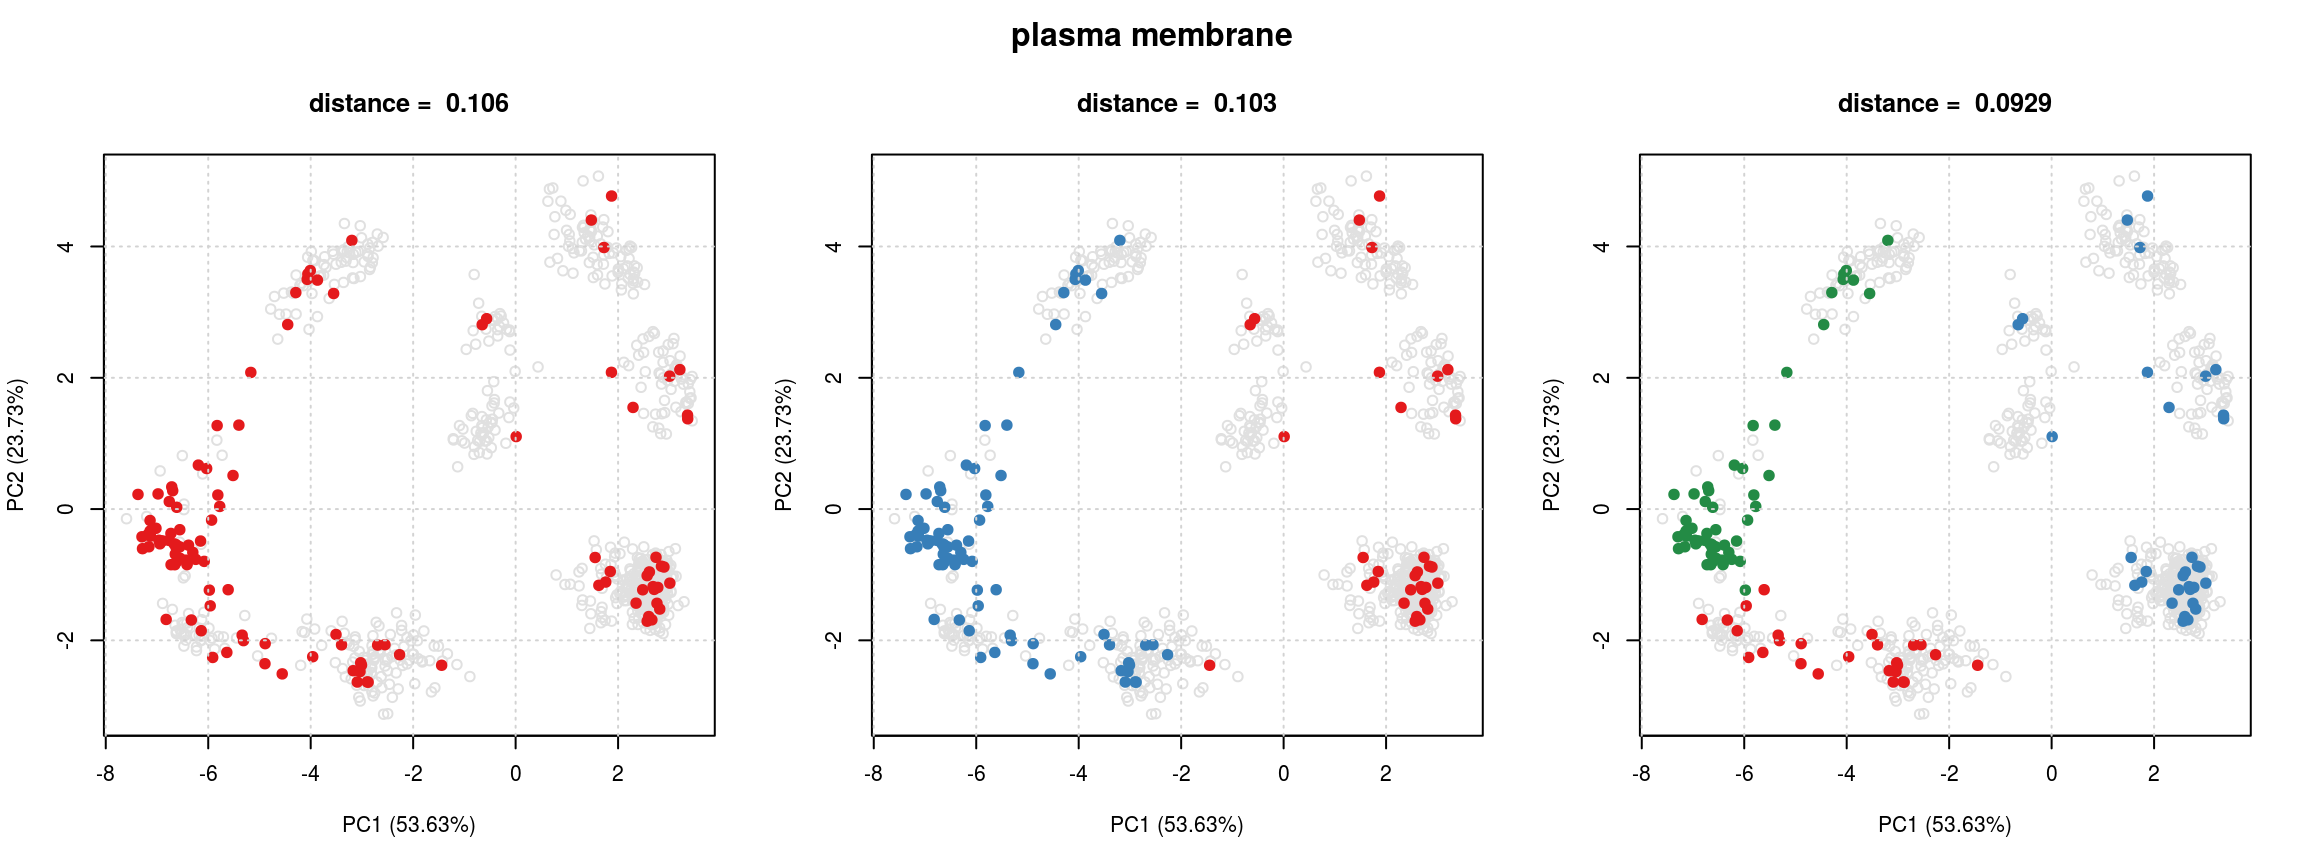
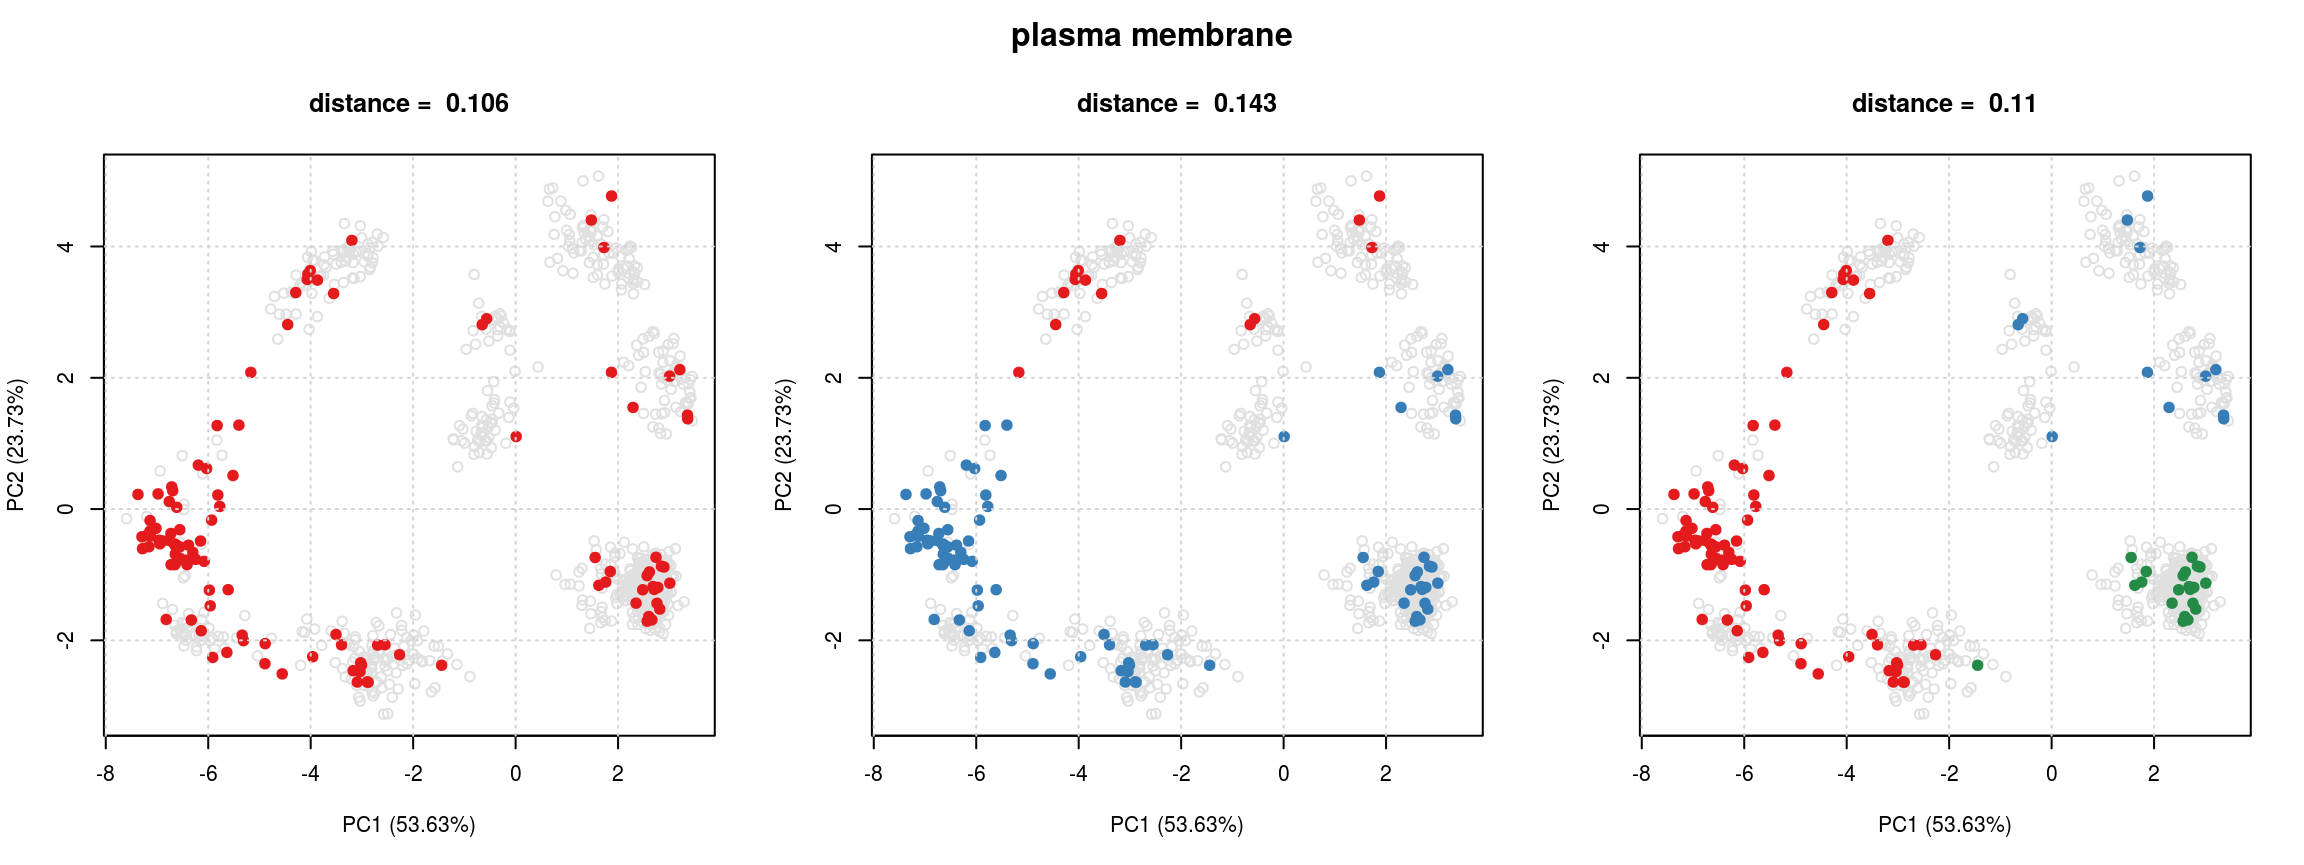
update pkgdown

diff --git a/docs/articles/v01-pRoloc-tutorial.html b/docs/articles/v01-pRoloc-tutorial.html
@@ -305,7 +305,7 @@ tan2009r1</code></pre></div>
 ## experimentData: use 'experimentData(object)'
 ## Annotation:  
 ## - - - Processing information - - -
-## Quantitation data loaded: Tue Sep 18 09:25:19 2018  using readMSnSet. 
+## Quantitation data loaded: Tue Sep 18 09:33:05 2018  using readMSnSet. 
 ##  MSnbase version: 2.7.4</code></pre>
 </div>
 </div>
@@ -748,7 +748,7 @@ svmres &lt;-<span class="st"> </span><span class="kw"><a href="../reference/svmC
 <span class="kw"><a href="http://www.rdocumentation.org/packages/MSnbase/topics/pSet-class">processingData</a></span>(svmres)</code></pre></div>
 <pre><code>## - - - Processing information - - -
 ## Added markers from  'mrk' marker vector. Thu Jul 16 22:53:44 2015 
-## Performed svm prediction (sigma=0.1 cost=0.5) Tue Sep 18 09:25:26 2018 
+## Performed svm prediction (sigma=0.1 cost=0.5) Tue Sep 18 09:33:12 2018 
 ##  MSnbase version: 1.17.12</code></pre>
 <div class="sourceCode"><pre class="sourceCode r"><code class="sourceCode r"><span class="kw">tail</span>(<span class="kw">fvarLabels</span>(svmres), <span class="dv">4</span>)</code></pre></div>
 <pre><code>## [1] "markers"    "markers.tl" "svm"        "svm.scores"</code></pre>
@@ -850,8 +850,8 @@ Organelle-specific SVM score distributions.
 ## Annotation:  
 ## - - - Processing information - - -
 ## Added markers from  'mrk' marker vector. Thu Jul 16 22:53:44 2015 
-## Performed svm prediction (sigma=0.1 cost=0.5) Tue Sep 18 09:25:26 2018 
-## Added svm predictions according to thresholds: ER = 0.84, Golgi = 0.63, mitochondrion = 0.75, PM = 0.77 Tue Sep 18 09:25:26 2018 
+## Performed svm prediction (sigma=0.1 cost=0.5) Tue Sep 18 09:33:12 2018 
+## Added svm predictions according to thresholds: ER = 0.84, Golgi = 0.63, mitochondrion = 0.75, PM = 0.77 Tue Sep 18 09:33:12 2018 
 ##  MSnbase version: 1.17.12</code></pre>
 <p>We can now visualise these results using the plotting functions presented in section @ref(sec:usml), as shown on figure @ref(fig:svmres). We clearly see that besides the organelle marker clusters that have been assigned high confidence members, many other proteins have substantially lower prediction scores.</p>
 <div class="sourceCode"><pre class="sourceCode r"><code class="sourceCode r">ptsze &lt;-<span class="st"> </span><span class="kw">exp</span>(<span class="kw">fData</span>(svmres)<span class="op">$</span>svm.scores) <span class="op">-</span><span class="st"> </span><span class="dv">1</span>

diff --git a/docs/articles/v03-pRoloc-bayesian.html b/docs/articles/v03-pRoloc-bayesian.html
@@ -52,7 +52,7 @@
   </a>
   <ul class="dropdown-menu" role="menu">
 <li>
-      <a href="../articles/v01-pRoloc-tutorial.html">UNKNOWN TITLE</a>
+      <a href="../articles/v01-pRoloc-tutorial.html">Using pRoloc for spatial proteomics data analysis</a>
     </li>
     <li>
       <a href="../articles/v02-pRoloc-ml.html">Machine learning techniques available in pRoloc</a>
@@ -205,18 +205,18 @@ p</code></pre></div>
 <div class="sourceCode"><pre class="sourceCode r"><code class="sourceCode r"><span class="kw">table</span>(<span class="kw">fData</span>(res)<span class="op">$</span>tagm.mcmc.allocation)</code></pre></div>
 <pre><code>## 
 ##  Cytoskeleton            ER         Golgi      Lysosome mitochondrion 
-##            12            98            20            10            39 
+##            13            98            18            10            39 
 ##       Nucleus    Peroxisome            PM    Proteasome  Ribosome 40S 
-##            25             3           103            29            31 
+##            25             3           102            31            32 
 ##  Ribosome 60S 
-##            30</code></pre>
+##            29</code></pre>
 <ul>
 <li>
 <code>tagm.mcmc.probability</code>: the posterior probability for the protein sub-cellular allocations.</li>
 </ul>
 <div class="sourceCode"><pre class="sourceCode r"><code class="sourceCode r"><span class="kw">summary</span>(<span class="kw">fData</span>(res)<span class="op">$</span>tagm.mcmc.probability)</code></pre></div>
 <pre><code>##    Min. 1st Qu.  Median    Mean 3rd Qu.    Max. 
-##  0.3259  0.8980  0.9895  0.9098  1.0000  1.0000</code></pre>
+##  0.3497  0.8896  0.9882  0.9085  1.0000  1.0000</code></pre>
 <p>As well as other useful summaries of the MCMC methods:</p>
 <ul>
 <li><p><code>tagm.mcmc.outlier</code> the posterior probability for the protein to belong to the outlier component.</p></li>

diff --git a/docs/articles/v05-pRoloc-transfer-learning.html b/docs/articles/v05-pRoloc-transfer-learning.html
@@ -52,7 +52,7 @@
   </a>
   <ul class="dropdown-menu" role="menu">
 <li>
-      <a href="../articles/v01-pRoloc-tutorial.html">UNKNOWN TITLE</a>
+      <a href="../articles/v01-pRoloc-tutorial.html">Using pRoloc for spatial proteomics data analysis</a>
     </li>
     <li>
       <a href="../articles/v02-pRoloc-ml.html">Machine learning techniques available in pRoloc</a>
@@ -166,7 +166,7 @@ document.addEventListener("DOMContentLoaded", function() {
 ##  Using the 'ENSEMBL_MART_ENSEMBL' BioMart database
 ##  Using the 'hsapiens_gene_ensembl' dataset
 ##  Using 'uniprotswissprot' as filter
-##  Created on Tue Sep 18 09:21:26 2018</code></pre>
+##  Created on Tue Sep 18 09:35:09 2018</code></pre>
 <p>The <em>setAnnotationParams</em> function automatically sets the annotation parameters globally so that the <code>ap</code> object does not need to be explicitly set later on. The default parameters can be retrieved with <em>getAnnotationParams</em>.</p>
 </div>
 <div id="sec:auxgo" class="section level3">
@@ -192,7 +192,7 @@ andygoset</code></pre></div>
 ## experimentData: use 'experimentData(object)'
 ## Annotation:  
 ## - - - Processing information - - -
-## Constructed GO set using cellular_component namespace [Tue Sep 18 09:21:37 2018] 
+## Constructed GO set using cellular_component namespace [Tue Sep 18 09:35:18 2018] 
 ##  MSnbase version: 2.7.4</code></pre>
 <div class="sourceCode"><pre class="sourceCode r"><code class="sourceCode r"><span class="kw">exprs</span>(andygoset)[<span class="dv">1</span><span class="op">:</span><span class="dv">7</span>, <span class="dv">1</span><span class="op">:</span><span class="dv">4</span>]</code></pre></div>
 <pre><code>##        GO:0016020 GO:0016021 GO:0005783 GO:0005730

diff --git a/docs/articles/v04-pRoloc-goannotations.html b/docs/articles/v04-pRoloc-goannotations.html
@@ -52,7 +52,7 @@
   </a>
   <ul class="dropdown-menu" role="menu">
 <li>
-      <a href="../articles/v01-pRoloc-tutorial.html">UNKNOWN TITLE</a>
+      <a href="../articles/v01-pRoloc-tutorial.html">Using pRoloc for spatial proteomics data analysis</a>
     </li>
     <li>
       <a href="../articles/v02-pRoloc-ml.html">Machine learning techniques available in pRoloc</a>
@@ -209,13 +209,13 @@ dd[[<span class="dv">1</span>]]</code></pre></div>
 ##  nrow =  114 
 ## k's tested: 1 2 3 
 ##   Size:  114 
-##   Size:  34, 80 
-##   Size:  26, 33, 55 
+##   Size:  14, 100 
+##   Size:  80, 12, 22 
 ## Clusters info:
-##       ks.mean    mean ks.norm     norm
-## k = 1       1  0.5153       1  0.10627
-## k = 2       2  0.3771       2  0.10299
-## k = 3       3 *0.3067       3 *0.09294</code></pre>
+##       ks.mean    mean ks.norm    norm
+## k = 1       1  0.5153       1 *0.1063
+## k = 2       2  0.4524       2  0.1435
+## k = 3       3 *0.3178       3  0.1104</code></pre>
 <p>We can use the <code>plotClustDist</code> and <code>plotComponents</code> to visualise these results.</p>
 <div class="sourceCode"><pre class="sourceCode r"><code class="sourceCode r">## Plot normalised distances 
 <span class="kw">plot</span>(dd, <span class="dt">p =</span> <span class="dv">1</span><span class="op">/</span><span class="dv">3</span>)</code></pre></div>

diff --git a/docs/articles/v02-pRoloc-ml.html b/docs/articles/v02-pRoloc-ml.html
@@ -52,7 +52,7 @@
   </a>
   <ul class="dropdown-menu" role="menu">
 <li>
-      <a href="../articles/v01-pRoloc-tutorial.html">UNKNOWN TITLE</a>
+      <a href="../articles/v01-pRoloc-tutorial.html">Using pRoloc for spatial proteomics data analysis</a>
     </li>
     <li>
       <a href="../articles/v02-pRoloc-ml.html">Machine learning techniques available in pRoloc</a>
@@ -252,7 +252,7 @@ tan2009r1</code></pre></div>
 ## Annotation:  
 ## - - - Processing information - - -
 ## Added markers from  'mrk' marker vector. Thu Jul 16 22:53:44 2015 
-## Performed svm prediction (sigma=1 cost=16) Tue Sep 18 09:19:30 2018 
+## Performed svm prediction (sigma=1 cost=16) Tue Sep 18 09:33:27 2018 
 ##  MSnbase version: 1.17.12</code></pre>
 </div>
 <div id="customising-model-parameters" class="section level2">
